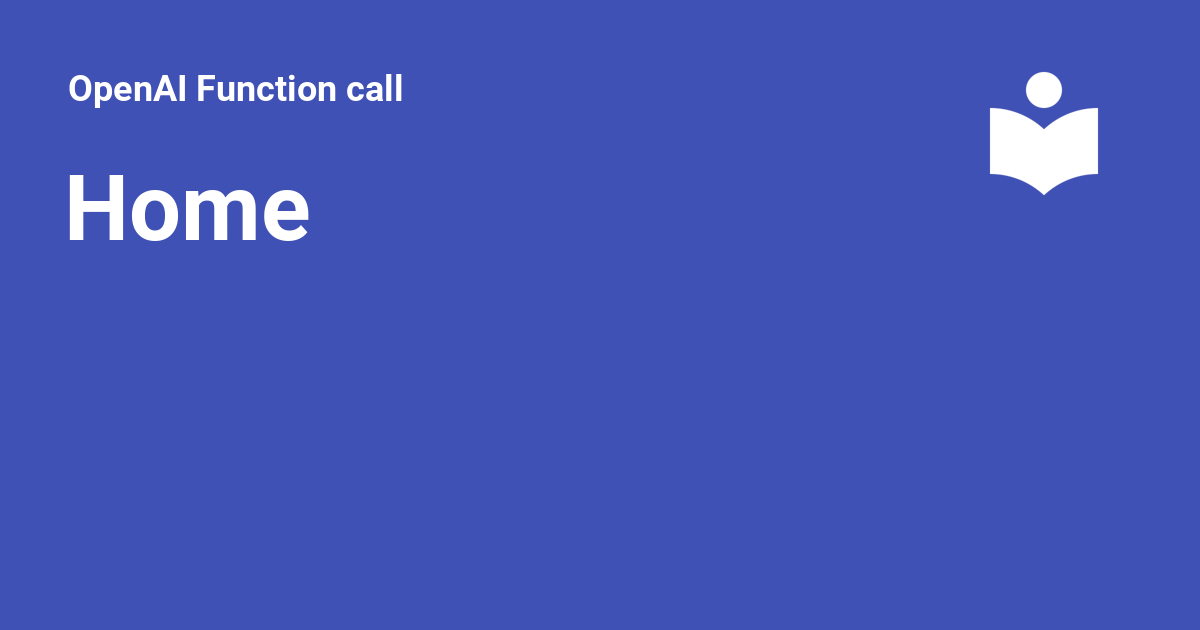
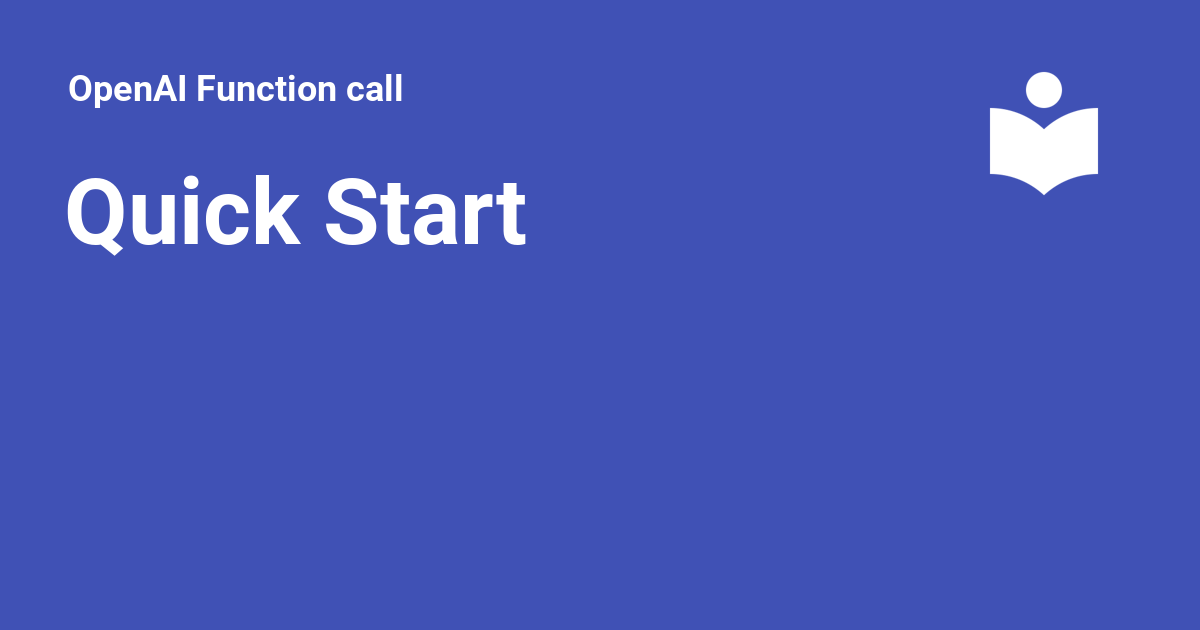
Deployed 21405a7 with MkDocs version: 1.4.3

Changed region(s): [[0.0308, 0.2714, 0.4625, 0.4222]]

diff --git a/index.html b/index.html
@@ -50,7 +50,7 @@
       
         <meta  property="og:type"  content="website" >
       
-        <meta  property="og:title"  content="Home" >
+        <meta  property="og:title"  content="Quick Start" >
       
         <meta  property="og:description"  content="None" >
       
@@ -66,7 +66,7 @@
       
         <meta  name="twitter:card"  content="summary_large_image" >
       
-        <meta  name="twitter:title"  content="Home" >
+        <meta  name="twitter:title"  content="Quick Start" >
       
         <meta  name="twitter:description"  content="None" >
       
@@ -124,7 +124,7 @@
         <div class="md-header__topic" data-md-component="header-topic">
           <span class="md-ellipsis">
             
-              Home
+              Quick Start
             
           </span>
         </div>
@@ -211,12 +211,12 @@
       
       
         <label class="md-nav__link md-nav__link--active" for="__toc">
-          Home
+          Quick Start
           <span class="md-nav__icon md-icon"></span>
         </label>
       
       <a href="." class="md-nav__link md-nav__link--active">
-        Home
+        Quick Start
       </a>
       
         

diff --git a/examples/search/index.html b/examples/search/index.html
@@ -202,7 +202,7 @@
   
     <li class="md-nav__item">
       <a href="../.." class="md-nav__link">
-        Home
+        Quick Start
       </a>
     </li>
   

diff --git a/404.html b/404.html
@@ -167,7 +167,7 @@
   
     <li class="md-nav__item">
       <a href="/." class="md-nav__link">
-        Home
+        Quick Start
       </a>
     </li>
   

diff --git a/chat-completion/index.html b/chat-completion/index.html
@@ -204,7 +204,7 @@
   
     <li class="md-nav__item">
       <a href=".." class="md-nav__link">
-        Home
+        Quick Start
       </a>
     </li>
   

diff --git a/multitask/index.html b/multitask/index.html
@@ -204,7 +204,7 @@
   
     <li class="md-nav__item">
       <a href=".." class="md-nav__link">
-        Home
+        Quick Start
       </a>
     </li>
   

diff --git a/openai_schema/index.html b/openai_schema/index.html
@@ -204,7 +204,7 @@
   
     <li class="md-nav__item">
       <a href=".." class="md-nav__link">
-        Home
+        Quick Start
       </a>
     </li>
   

diff --git a/pipeline-example/index.html b/pipeline-example/index.html
@@ -204,7 +204,7 @@
   
     <li class="md-nav__item">
       <a href=".." class="md-nav__link">
-        Home
+        Quick Start
       </a>
     </li>
   
